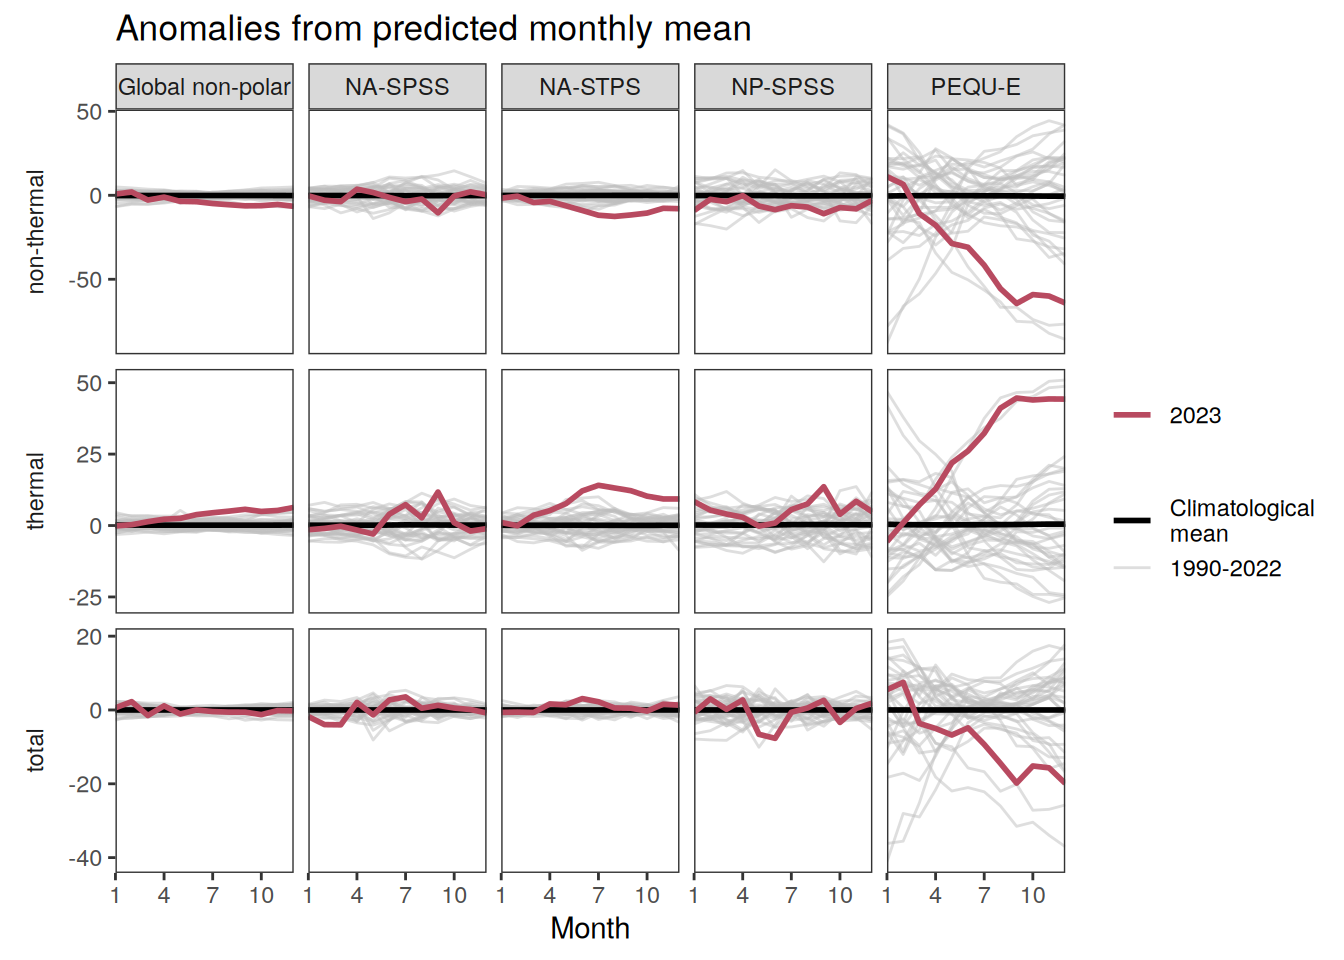
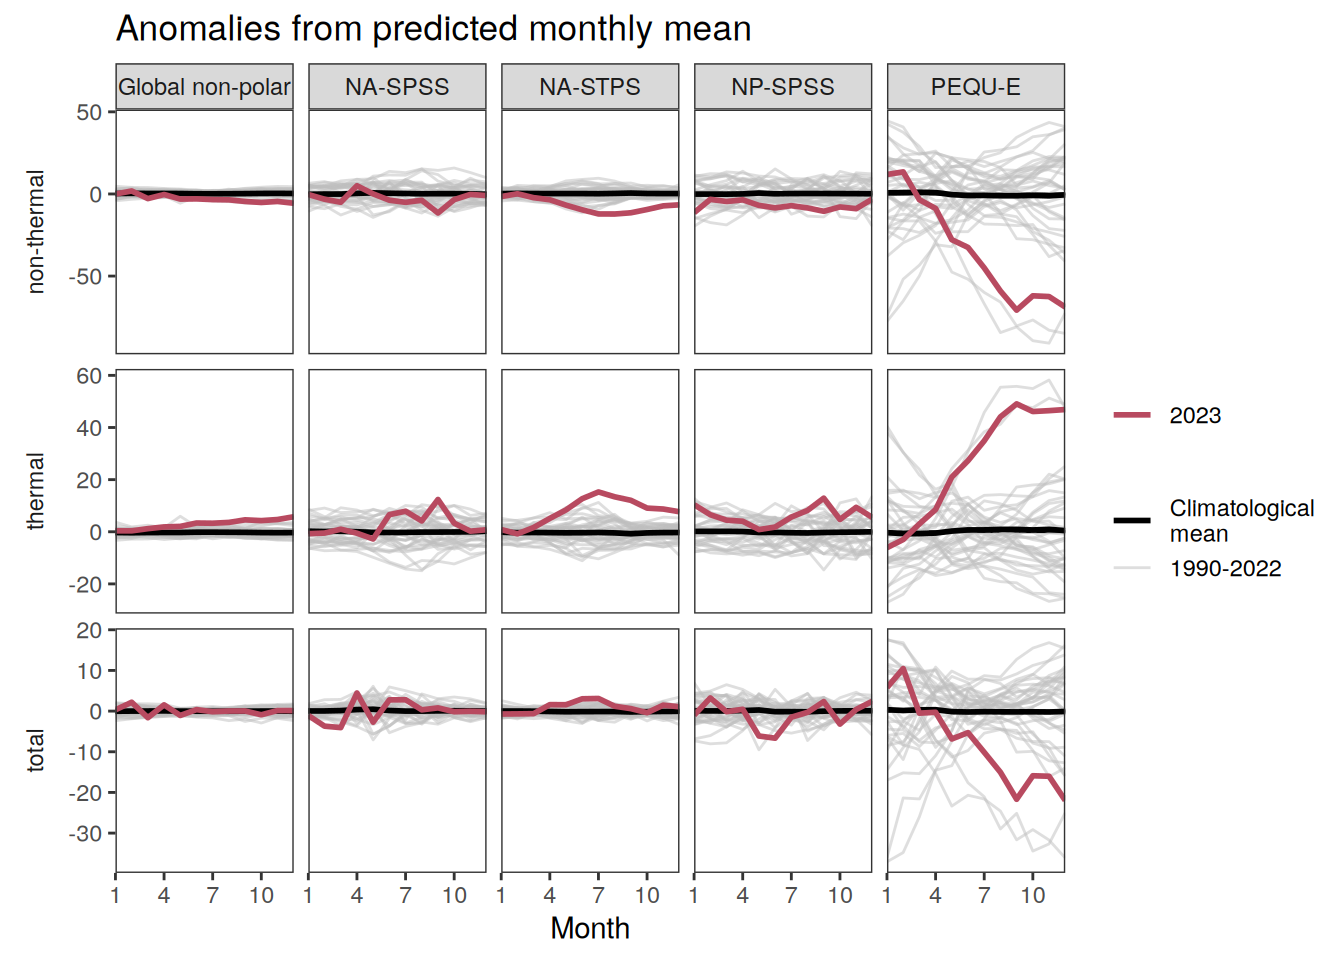
Build site.

diff --git a/docs/fco2residual_GCB.html b/docs/fco2residual_GCB.html
@@ -478,7 +478,7 @@ div.tocify {
 
 <h1 class="title toc-ignore">fco2residual</h1>
 <h4 class="author">Jens Daniel Müller</h4>
-<h4 class="date">07 March, 2025</h4>
+<h4 class="date">14 March, 2025</h4>
 
 </div>
 
@@ -507,7 +507,7 @@ class="glyphicon glyphicon-ok text-success" aria-hidden="true"></span>
 <div class="tab-content">
 <div id="summary" class="tab-pane fade in active">
 <p>
-<strong>Last updated:</strong> 2025-03-07
+<strong>Last updated:</strong> 2025-03-14
 </p>
 <p>
 <strong>Checks:</strong> <span
@@ -639,15 +639,15 @@ project makes it easier to run your code on other machines.</p>
 <div class="panel panel-default">
 <div class="panel-heading">
 <p class="panel-title">
-<a data-toggle="collapse" data-parent="#workflowr-checks" href="#strongRepositoryversionstrongahrefhttpsgithubcomjensdanielmuellerheatwaveco2flux2023treedd25c0cf572b4266f1ef4f0e8af2227f5fe71cfctargetblankdd25c0ca">
+<a data-toggle="collapse" data-parent="#workflowr-checks" href="#strongRepositoryversionstrongahrefhttpsgithubcomjensdanielmuellerheatwaveco2flux2023tree5c7cafeb71f093cb197750a146e1cce70cbd7035targetblank5c7cafea">
 <span class="glyphicon glyphicon-ok text-success"
 aria-hidden="true"></span> <strong>Repository version:</strong>
-<a href="https://github.com/jens-daniel-mueller/heatwave_co2_flux_2023/tree/dd25c0cf572b4266f1ef4f0e8af2227f5fe71cfc" target="_blank">dd25c0c</a>
+<a href="https://github.com/jens-daniel-mueller/heatwave_co2_flux_2023/tree/5c7cafeb71f093cb197750a146e1cce70cbd7035" target="_blank">5c7cafe</a>
 </a>
 </p>
 </div>
 <div
[2 lines of base64/hex data omitted]
 class="panel-collapse collapse">
 <div class="panel-body">
 <p>
@@ -657,7 +657,7 @@ reproducibility.
 </p>
 <p>
 The results in this page were generated with repository version
-<a href="https://github.com/jens-daniel-mueller/heatwave_co2_flux_2023/tree/dd25c0cf572b4266f1ef4f0e8af2227f5fe71cfc" target="_blank">dd25c0c</a>.
+<a href="https://github.com/jens-daniel-mueller/heatwave_co2_flux_2023/tree/5c7cafeb71f093cb197750a146e1cce70cbd7035" target="_blank">5c7cafe</a>.
 See the <em>Past versions</em> tab to see a history of the changes made
 to the R Markdown and HTML files.
 </p>
@@ -678,7 +678,7 @@ Ignored files:
     Ignored:    output/
 
 Unstaged changes:
-    Modified:   analysis/_site.yml
+    Modified:   analysis/child/pCO2_product_analysis.Rmd
     Modified:   analysis/child/pCO2_product_synopsis.Rmd
     Modified:   code/Workflowr_project_managment.R
 
@@ -725,6 +725,23 @@ Message
 </tr>
 </thead>
 <tbody>
+<tr>
+<td>
+html
+</td>
+<td>
+<a href="https://rawcdn.githack.com/jens-daniel-mueller/heatwave_co2_flux_2023/0dce160edded4558baef4169a44227d3e50f3f4d/docs/fco2residual_GCB.html" target="_blank">0dce160</a>
+</td>
+<td>
+jens-daniel-mueller
+</td>
+<td>
+2025-03-07
+</td>
+<td>
+Build site.
+</td>
+</tr>
 <tr>
 <td>
 html
@@ -4144,8 +4161,8 @@ jens-daniel-mueller
 
 gc()</code></pre>
 <pre><code>             used    (Mb) gc trigger    (Mb)   max used    (Mb)
-Ncells    4299384   229.7   46815952  2500.3  114296755  6104.2
-Vcells 2070550995 15797.1 3995845613 30485.9 3995823667 30485.8</code></pre>
+Ncells    4299530   229.7   41709994  2227.6  127288794  6798.0
+Vcells 2070551630 15797.1 4661876091 35567.3 4661757944 35566.4</code></pre>
 <pre class="r"><code>map +
   geom_tile(data = pco2_product_map_annual_fCO2_decomposition %&gt;%
               filter(year == 2023), aes(lon, lat, fill = resid)) +
@@ -4336,8 +4353,8 @@ jens-daniel-mueller
 </div>
 <pre class="r"><code>gc()</code></pre>
 <pre><code>             used    (Mb) gc trigger    (Mb)   max used    (Mb)
-Ncells    4317367   230.6   37452762  2000.2  114296755  6104.2
-Vcells 2338940555 17844.8 3995845613 30485.9 3995823667 30485.8</code></pre>
+Ncells    4317438   230.6   33367996  1782.1  127288794  6798.0
+Vcells 2338941089 17844.8 4661876091 35567.3 4661876089 35567.3</code></pre>
 <pre class="r"><code>pco2_product_map_monthly_anomaly %&gt;%
   filter(year == 2023) %&gt;%
   write_csv(
@@ -7732,11 +7749,42 @@ jens-daniel-mueller
 pco2_product_biome_monthly_fCO2_decomposition &lt;-
   full_join(pco2_product_map_monthly_fCO2_decomposition,
             biome_mask,
-            relationship = &quot;many-to-many&quot;) %&gt;% 
-  group_by(year, month, biome, name) %&gt;% 
-  summarise(resid = mean(resid, na.rm = TRUE)) %&gt;% 
-  ungroup() %&gt;% 
+            relationship = &quot;many-to-many&quot;)
+
+
+# pco2_product_biome_monthly_fCO2_decomposition_no_weight &lt;-
+#   pco2_product_biome_monthly_fCO2_decomposition %&gt;%
+#   group_by(year, month, biome, name) %&gt;%
+#   summarise(resid = mean(resid, na.rm = TRUE)) %&gt;%
+#   ungroup() %&gt;%
+#   drop_na()
+# 
+# pco2_product_biome_monthly_fCO2_decomposition_area &lt;-
+#   pco2_product_biome_monthly_fCO2_decomposition %&gt;%
+#   group_by(year, month, biome, name) %&gt;%
+#   summarise(resid = weighted.mean(resid, area, na.rm = TRUE)) %&gt;%
+#   ungroup() %&gt;%
+#   drop_na()
+
+
+# compute regional averages weighted by area and wind speed (represented by kw*sol)
+
+pco2_product_biome_monthly_fCO2_decomposition &lt;-
+  full_join(
+    pco2_product_biome_monthly_fCO2_decomposition,
+    pco2_product_map_monthly %&gt;%
+      filter(name == &quot;kw_sol&quot;) %&gt;% 
+      select(-name) %&gt;% 
+      rename(kw_sol = value)
+  )
+
+pco2_product_biome_monthly_fCO2_decomposition &lt;-
+  pco2_product_biome_monthly_fCO2_decomposition %&gt;%
+  group_by(year, month, biome, name) %&gt;%
+  summarise(resid = weighted.mean(resid, area*kw_sol, na.rm = TRUE)) %&gt;%
+  ungroup() %&gt;%
   drop_na()
+
 
 
 pco2_product_biome_annual_fCO2_decomposition &lt;-
@@ -7744,6 +7792,8 @@ pco2_product_biome_annual_fCO2_decomposition &lt;-
   group_by(year, biome, name) %&gt;%
   summarise(resid = mean(resid)) %&gt;%
   ungroup()
+  # filter(biome == &quot;Global non-polar&quot;,
+  #        year == 2023)
 
 
 pco2_product_biome_monthly_fCO2_decomposition %&gt;%

diff --git a/docs/CMEMS_GCB.html b/docs/CMEMS_GCB.html
@@ -478,7 +478,7 @@ div.tocify {
 
 <h1 class="title toc-ignore">CMEMS_GCB</h1>
 <h4 class="author">Jens Daniel Müller</h4>
-<h4 class="date">07 March, 2025</h4>
+<h4 class="date">14 March, 2025</h4>
 
 </div>
 
@@ -507,7 +507,7 @@ class="glyphicon glyphicon-ok text-success" aria-hidden="true"></span>
 <div class="tab-content">
 <div id="summary" class="tab-pane fade in active">
 <p>
-<strong>Last updated:</strong> 2025-03-07
+<strong>Last updated:</strong> 2025-03-14
 </p>
 <p>
 <strong>Checks:</strong> <span
@@ -639,15 +639,15 @@ project makes it easier to run your code on other machines.</p>
 <div class="panel panel-default">
 <div class="panel-heading">
 <p class="panel-title">
-<a data-toggle="collapse" data-parent="#workflowr-checks" href="#strongRepositoryversionstrongahrefhttpsgithubcomjensdanielmuellerheatwaveco2flux2023treea26d2abdf4dab2d7050575b326792a91450aaee2targetblanka26d2aba">
+<a data-toggle="collapse" data-parent="#workflowr-checks" href="#strongRepositoryversionstrongahrefhttpsgithubcomjensdanielmuellerheatwaveco2flux2023tree5c7cafeb71f093cb197750a146e1cce70cbd7035targetblank5c7cafea">
 <span class="glyphicon glyphicon-ok text-success"
 aria-hidden="true"></span> <strong>Repository version:</strong>
-<a href="https://github.com/jens-daniel-mueller/heatwave_co2_flux_2023/tree/a26d2abdf4dab2d7050575b326792a91450aaee2" target="_blank">a26d2ab</a>
+<a href="https://github.com/jens-daniel-mueller/heatwave_co2_flux_2023/tree/5c7cafeb71f093cb197750a146e1cce70cbd7035" target="_blank">5c7cafe</a>
 </a>
 </p>
 </div>
 <div
[2 lines of base64/hex data omitted]
 class="panel-collapse collapse">
 <div class="panel-body">
 <p>
@@ -657,7 +657,7 @@ reproducibility.
 </p>
 <p>
 The results in this page were generated with repository version
-<a href="https://github.com/jens-daniel-mueller/heatwave_co2_flux_2023/tree/a26d2abdf4dab2d7050575b326792a91450aaee2" target="_blank">a26d2ab</a>.
+<a href="https://github.com/jens-daniel-mueller/heatwave_co2_flux_2023/tree/5c7cafeb71f093cb197750a146e1cce70cbd7035" target="_blank">5c7cafe</a>.
 See the <em>Past versions</em> tab to see a history of the changes made
 to the R Markdown and HTML files.
 </p>
@@ -678,6 +678,7 @@ Ignored files:
     Ignored:    output/
 
 Unstaged changes:
+    Modified:   analysis/child/pCO2_product_analysis.Rmd
     Modified:   analysis/child/pCO2_product_synopsis.Rmd
     Modified:   code/Workflowr_project_managment.R
 
@@ -724,6 +725,23 @@ Message
 </tr>
 </thead>
 <tbody>
+<tr>
+<td>
+html
+</td>
+<td>
+<a href="https://rawcdn.githack.com/jens-daniel-mueller/heatwave_co2_flux_2023/643d6fabaca905348eef27f68e6f474d80f823b7/docs/CMEMS_GCB.html" target="_blank">643d6fa</a>
+</td>
+<td>
+jens-daniel-mueller
+</td>
+<td>
+2025-03-07
+</td>
+<td>
+Build site.
+</td>
+</tr>
 <tr>
 <td>
 html
@@ -4535,8 +4553,8 @@ jens-daniel-mueller
 
 gc()</code></pre>
 <pre><code>             used    (Mb) gc trigger    (Mb)   max used    (Mb)
-Ncells    4278597   228.6   41237837  2202.4  125847888  6721.1
-Vcells 1682804038 12838.8 4138972802 31577.9 4138965342 31577.8</code></pre>
+Ncells    4278579   228.6   40496704  2162.8  123586131  6600.3
+Vcells 1682804447 12838.8 4058003699 30960.2 4058003699 30960.2</code></pre>
 <pre class="r"><code>map +
   geom_tile(data = pco2_product_map_annual_fCO2_decomposition %&gt;%
               filter(year == 2023), aes(lon, lat, fill = resid)) +
@@ -4760,8 +4778,8 @@ jens-daniel-mueller
 </div>
 <pre class="r"><code>gc()</code></pre>
 <pre><code>             used    (Mb) gc trigger    (Mb)   max used    (Mb)
-Ncells    4296525   229.5   32990270  1761.9  125847888  6721.1
-Vcells 1928041834 14709.8 4138972802 31577.9 4138965342 31577.8</code></pre>
+Ncells    4296603   229.5   32397364  1730.3  123586131  6600.3
+Vcells 1928042386 14709.8 4058003699 30960.2 4058003699 30960.2</code></pre>
 <pre class="r"><code>pco2_product_map_monthly_anomaly %&gt;%
   filter(year == 2023) %&gt;%
   write_csv(
@@ -8629,11 +8647,42 @@ jens-daniel-mueller
 pco2_product_biome_monthly_fCO2_decomposition &lt;-
   full_join(pco2_product_map_monthly_fCO2_decomposition,
             biome_mask,
-            relationship = &quot;many-to-many&quot;) %&gt;% 
-  group_by(year, month, biome, name) %&gt;% 
-  summarise(resid = mean(resid, na.rm = TRUE)) %&gt;% 
-  ungroup() %&gt;% 
+            relationship = &quot;many-to-many&quot;)
+
+
+# pco2_product_biome_monthly_fCO2_decomposition_no_weight &lt;-
+#   pco2_product_biome_monthly_fCO2_decomposition %&gt;%
+#   group_by(year, month, biome, name) %&gt;%
+#   summarise(resid = mean(resid, na.rm = TRUE)) %&gt;%
+#   ungroup() %&gt;%
+#   drop_na()
+# 
+# pco2_product_biome_monthly_fCO2_decomposition_area &lt;-
+#   pco2_product_biome_monthly_fCO2_decomposition %&gt;%
+#   group_by(year, month, biome, name) %&gt;%
+#   summarise(resid = weighted.mean(resid, area, na.rm = TRUE)) %&gt;%
+#   ungroup() %&gt;%
+#   drop_na()
+
+
+# compute regional averages weighted by area and wind speed (represented by kw*sol)
+
+pco2_product_biome_monthly_fCO2_decomposition &lt;-
+  full_join(
+    pco2_product_biome_monthly_fCO2_decomposition,
+    pco2_product_map_monthly %&gt;%
+      filter(name == &quot;kw_sol&quot;) %&gt;% 
+      select(-name) %&gt;% 
+      rename(kw_sol = value)
+  )
+
+pco2_product_biome_monthly_fCO2_decomposition &lt;-
+  pco2_product_biome_monthly_fCO2_decomposition %&gt;%
+  group_by(year, month, biome, name) %&gt;%
+  summarise(resid = weighted.mean(resid, area*kw_sol, na.rm = TRUE)) %&gt;%
+  ungroup() %&gt;%
   drop_na()
+
 
 
 pco2_product_biome_annual_fCO2_decomposition &lt;-
@@ -8641,6 +8690,8 @@ pco2_product_biome_annual_fCO2_decomposition &lt;-
   group_by(year, biome, name) %&gt;%
   summarise(resid = mean(resid)) %&gt;%
   ungroup()
+  # filter(biome == &quot;Global non-polar&quot;,
+  #        year == 2023)
 
 
 pco2_product_biome_monthly_fCO2_decomposition %&gt;%
